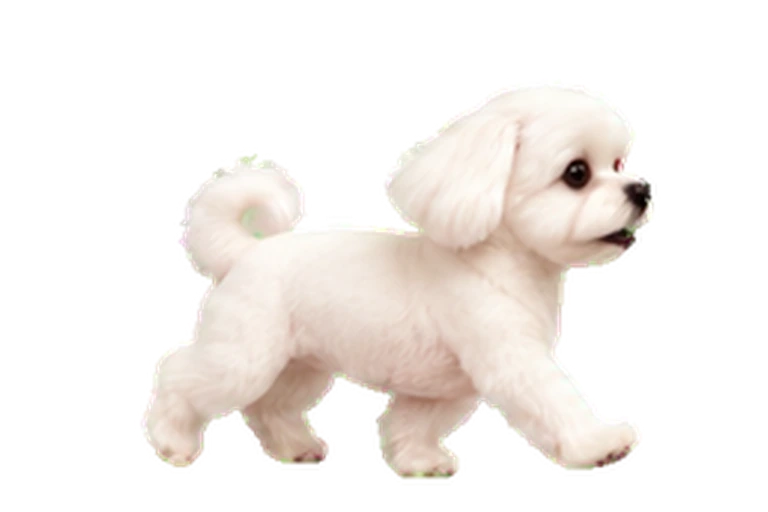
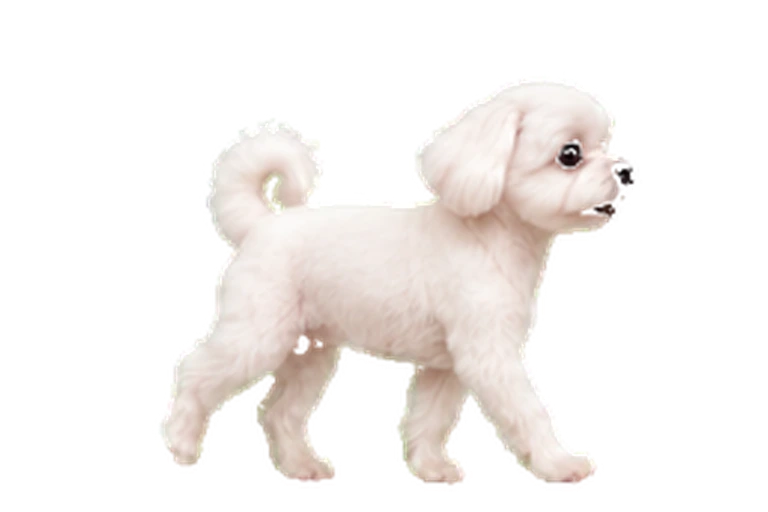
fix: redraw Milky gait with consistent leg proportions

Changed region(s): [[0.1875, 0.25, 0.8438, 0.9688], [0.4688, 0.1875, 0.875, 0.6875]]

diff --git a/src/milky-atlas.ts b/src/milky-atlas.ts
@@ -1,6 +1,6 @@
 import './milky-atlas.css';
 
-const SOURCE = '/assets/penthouse/milky-pet/spritesheet.png';
+const SOURCE = '/assets/penthouse/milky-pet/spritesheet.png?v=longlegs-2';
 const COUNTS = [6, 8, 8, 4, 5, 8, 6, 6, 6, 8, 8] as const;
 /** The Pets sheet is presentation only: the room keeps its existing movement/lifecycle. */
 export function mountMilkyAtlas(host: HTMLElement) {

diff --git a/src/milky-atlas.css b/src/milky-atlas.css
@@ -10,7 +10,7 @@
   bottom: 4%;
   transform: translateX(-50%) scale(var(--milky-atlas-scale, 1));
   transform-origin: 50% 97.115385%;
-  background-image: url('/assets/penthouse/milky-pet/spritesheet.png');
+  background-image: url('/assets/penthouse/milky-pet/spritesheet.png?v=longlegs-2');
   background-size: 800% 1100%;
   background-repeat: no-repeat;
   pointer-events: none;

diff --git a/asset-sources/milky-pet-refresh/README.md b/asset-sources/milky-pet-refresh/README.md
@@ -13,3 +13,5 @@ The jump strip was regenerated with natural elbow and hindleg flexion to keep li
 Runtime WebP derivatives are 768×512 (logical 1536×1024), quality 92; generated full-resolution strips remain here for reproducibility.
 
 The final play reach uses a regenerated low forepaw contact at native [1140,958] (345 pixels ahead of the support anchor). The eating muzzle is 190 pixels ahead. These measured landmarks keep bowl and ball placement aligned with the replacement anatomy.
+
+The eight profile gait frames were redrawn against a frontal calibration pose to match shoulder, elbow, belly and paw proportions. All eight share scale 0.64 and floor202 in the Pets atlas; left is the per-frame mirror. A scale correction alone had left the old legs too short. The calibrated generated strip and walking-registration.json preserve provenance. The runtime atlas URL is versioned to invalidate the previous gait cache.
